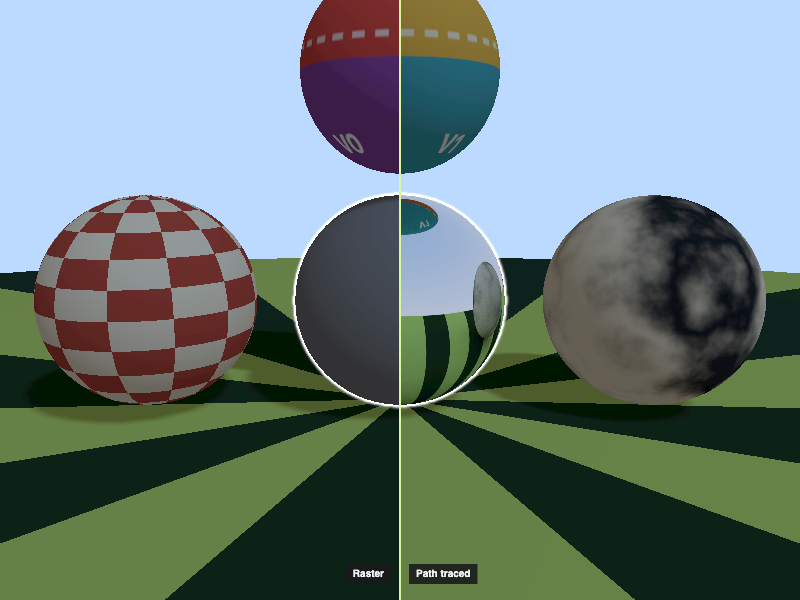
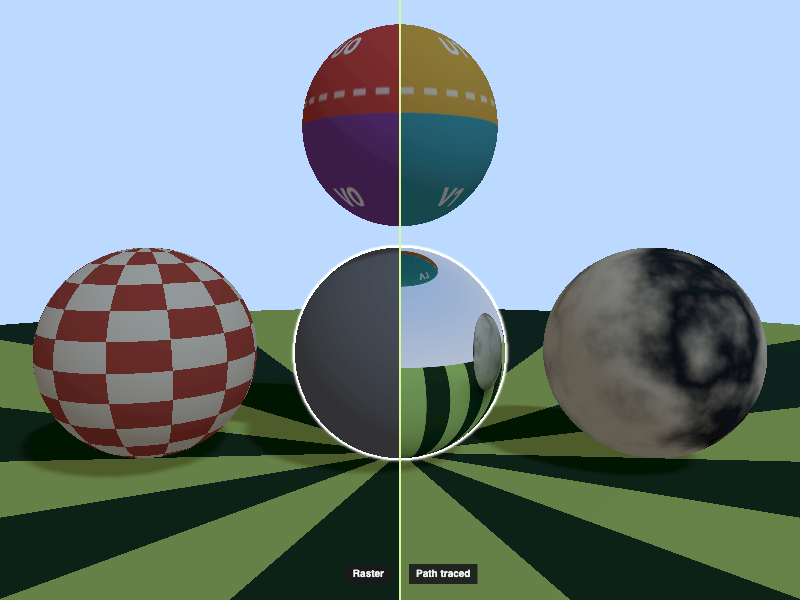
Refresh README showcase captures and demos

diff --git a/docs/media/README.md b/docs/media/README.md
@@ -1,29 +1,27 @@
 # Showcase captures
 
-Captured from Path Tracer Lab at source commit `6549aea` on September 4, 2026, using an isolated Chrome session. The collage combines real application output with caption strips. No generated imagery, denoising, relighting, or synthetic ray/geometry overlays were added. Cropping and resizing were used for layout; the collage is compressed as WebP and individual tiles are PNGs.
-
-The Cornell tile was recaptured on September 4, 2026 with black sky and horizon, using the settings below.
+Captured from the deployed `main` build at commit `148423b` on September 6, 2026, using isolated Chrome sessions. The collage combines application output with caption strips. No generated imagery, denoising, relighting, or synthetic ray/geometry overlays were added. Cropping and resizing were used for layout; the collage is WebP and individual tiles are PNGs. Recordings include a white pointer indicator.
 
 | Image | Scene and capture settings |
 | --- | --- |
-| [Global illumination · MIS](cornell.png) | CornellBox; offline path tracing; 800 × 600; 512 samples; depth 8; MIS; 32-bit accumulation; 38° FOV. Demonstrates indirect lighting, not a matched convergence-speed benchmark. |
-| [Transmission · Dispersion](dragon.png) | KhronosDragonDispersion; offline path tracing; 800 × 600; 512 samples; depth 8; MIS; 32-bit accumulation; authored camera and Meadow environment. Visible residual noise is retained. |
-| [glTF · Raster / path traced](helmet.png) | DamagedHelmetStudy; offline Comparison; 800 × 600; 256 samples; depth 8; MIS; divider at 50%. Meadow environment. |
-| [Selective path tracing](selected.png) | TextureStudy; offline Selected comparison; central metal sphere selected; 800 × 600; 256 samples; depth 8; MIS; divider at 50%. The surrounding objects remain rasterized. |
-| [Inspect camera rays](rays.png) | RTIOW1Simple; live capture including panels; Camera Rays panel cropped from the full image; five representative rays, depth 3, BVH bounds off; debug orbit camera adjusted for framing. |
-| [Explore BVH traversal](bvh.png) | PackedTrianglesStudy; live raster capture including the debug overlay layer; 2,048-triangle wave; BVH visible depth 3; picked ray at NDC (0, −0.12); camera orbited after picking; environment background hidden. Final traversal step: 36 node tests, 8 primitive tests, triangle 1247 hit, agrees with brute force. This is a CPU reference diagnostic, not GPU pixel readback. |
+| [Global illumination · MIS](cornell.png) | CornellBox; offline path tracing; 800 × 600; 512 samples; depth 10; MIS; 32-bit accumulation; 38° FOV; black sky and horizon. Demonstrates indirect lighting, not a matched convergence-speed benchmark. |
+| [Transmission · Dispersion](dragon.png) | KhronosDragonDispersion; offline path tracing; 800 × 600; 512 samples; depth 10; MIS; 32-bit accumulation; 38° FOV; Meadow environment. Visible residual noise is retained. |
+| [glTF · Raster / path traced](helmet.png) | DamagedHelmetStudy; offline Comparison; 800 × 600; 512 samples; depth 10; MIS; 32-bit accumulation; 42° FOV; divider at 50%; Meadow environment. |
+| [Selective path tracing](selected.png) | TextureStudy; offline Selected comparison; central metal sphere selected; 800 × 600; 512 samples; depth 10; MIS; 32-bit accumulation; 48° FOV; divider at 50%. Surrounding objects remain rasterized. |
+| [Inspect camera rays](rays.png) | EmissiveStudy; browser screenshot cropped to the Camera Rays panel; five representative rays, depth 3, BVH bounds off; current reset-view framing and toolbar. |
+| [CPU BVH traversal](bvh.png) | PackedTrianglesStudy; browser screenshot of raster output, BVH overlay, and traversal controls; 2,048-triangle wave; BVH visible depth 3; picked ray at NDC (−0.3, −0.12); final traversal step; camera orbited after picking; environment background hidden. This is a CPU diagnostic, not GPU pixel readback. |
 
 ## Emissive Study hero demo
 
 [Animated preview](emissive-demo.gif) · [Static poster](emissive-demo-poster.jpg)
 
-Shows the emissive scene, comparison divider, camera movement, and camera-ray visualization. The 14-second GIF is 660 × 534 at 10 fps, with original playback timing. Displayed application FPS is not a benchmark.
+Enables debug BVH bounds, moves the scene camera out and back, changes BVH depth, ray depth, and ray count, then sweeps the comparison divider across the teapot and metal sphere. Recorded at 0.75× resolution, one sample per frame, depth 8, and MIS. The GIF is 800 × 600 at 12 fps with original playback timing. Noise during camera movement is retained; displayed application FPS is not a benchmark.
 
 ## CPU BVH ray-traversal demo
 
 [Animated preview](bvh-traversal-viz.gif) · [Static poster](bvh-traversal-viz-poster.jpg)
 
-Demonstrates the packed-triangle scene's BVH bounds and CPU “Pick ray” traversal visualization. This uses the reference traversal algorithm over the production flattened BVH, not live GPU pixel readback. The 27-second GIF is 660 × 534 at 10 fps, with original playback timing.
+Demonstrates the packed-triangle scene's BVH bounds, picking a ray, playing through its traversal, and orbiting the result. This uses the CPU reference traversal algorithm over the production flattened BVH, not GPU pixel readback. The approximately 13-second GIF is 800 × 600 at 12 fps with original playback timing.
 
 ## Credits
 

diff --git a/README.md b/README.md
@@ -14,7 +14,7 @@ Built with Three.js, React, and a custom WebGL2 path tracer.
 
 Captured in the app. [Images, settings, and credits](docs/media/README.md).
 
-[![Emissive Study demo: enable debug BVH, orbit with five camera rays, then sweep the comparison divider across an orange teapot and reflective sphere](docs/media/emissive-demo.gif)](https://pathtracer-lab.vercel.app/)
+[![Emissive Study demo: orbit the camera, adjust BVH and ray settings, then sweep the comparison divider across an orange teapot and reflective sphere](docs/media/emissive-demo.gif)](https://pathtracer-lab.vercel.app/)
 
 Camera movement, ray visualization, and raster/path-traced comparison.
 
